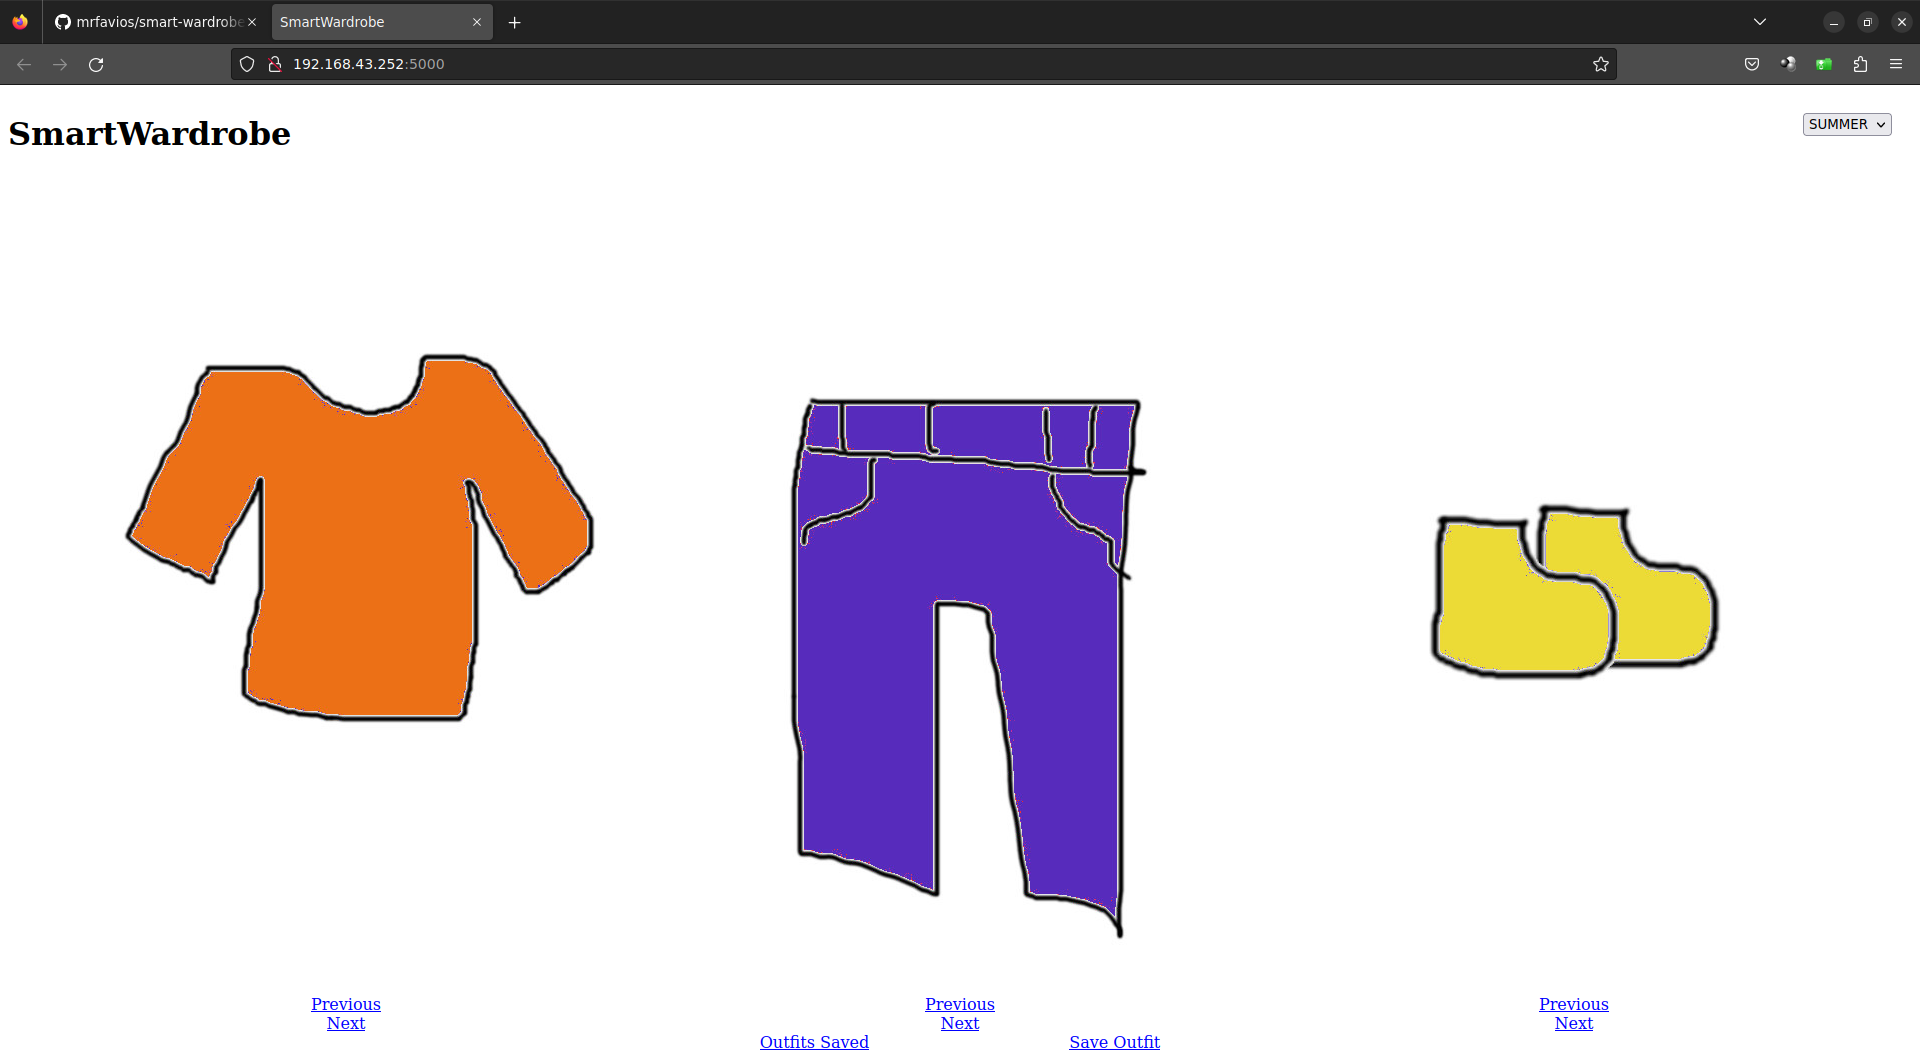
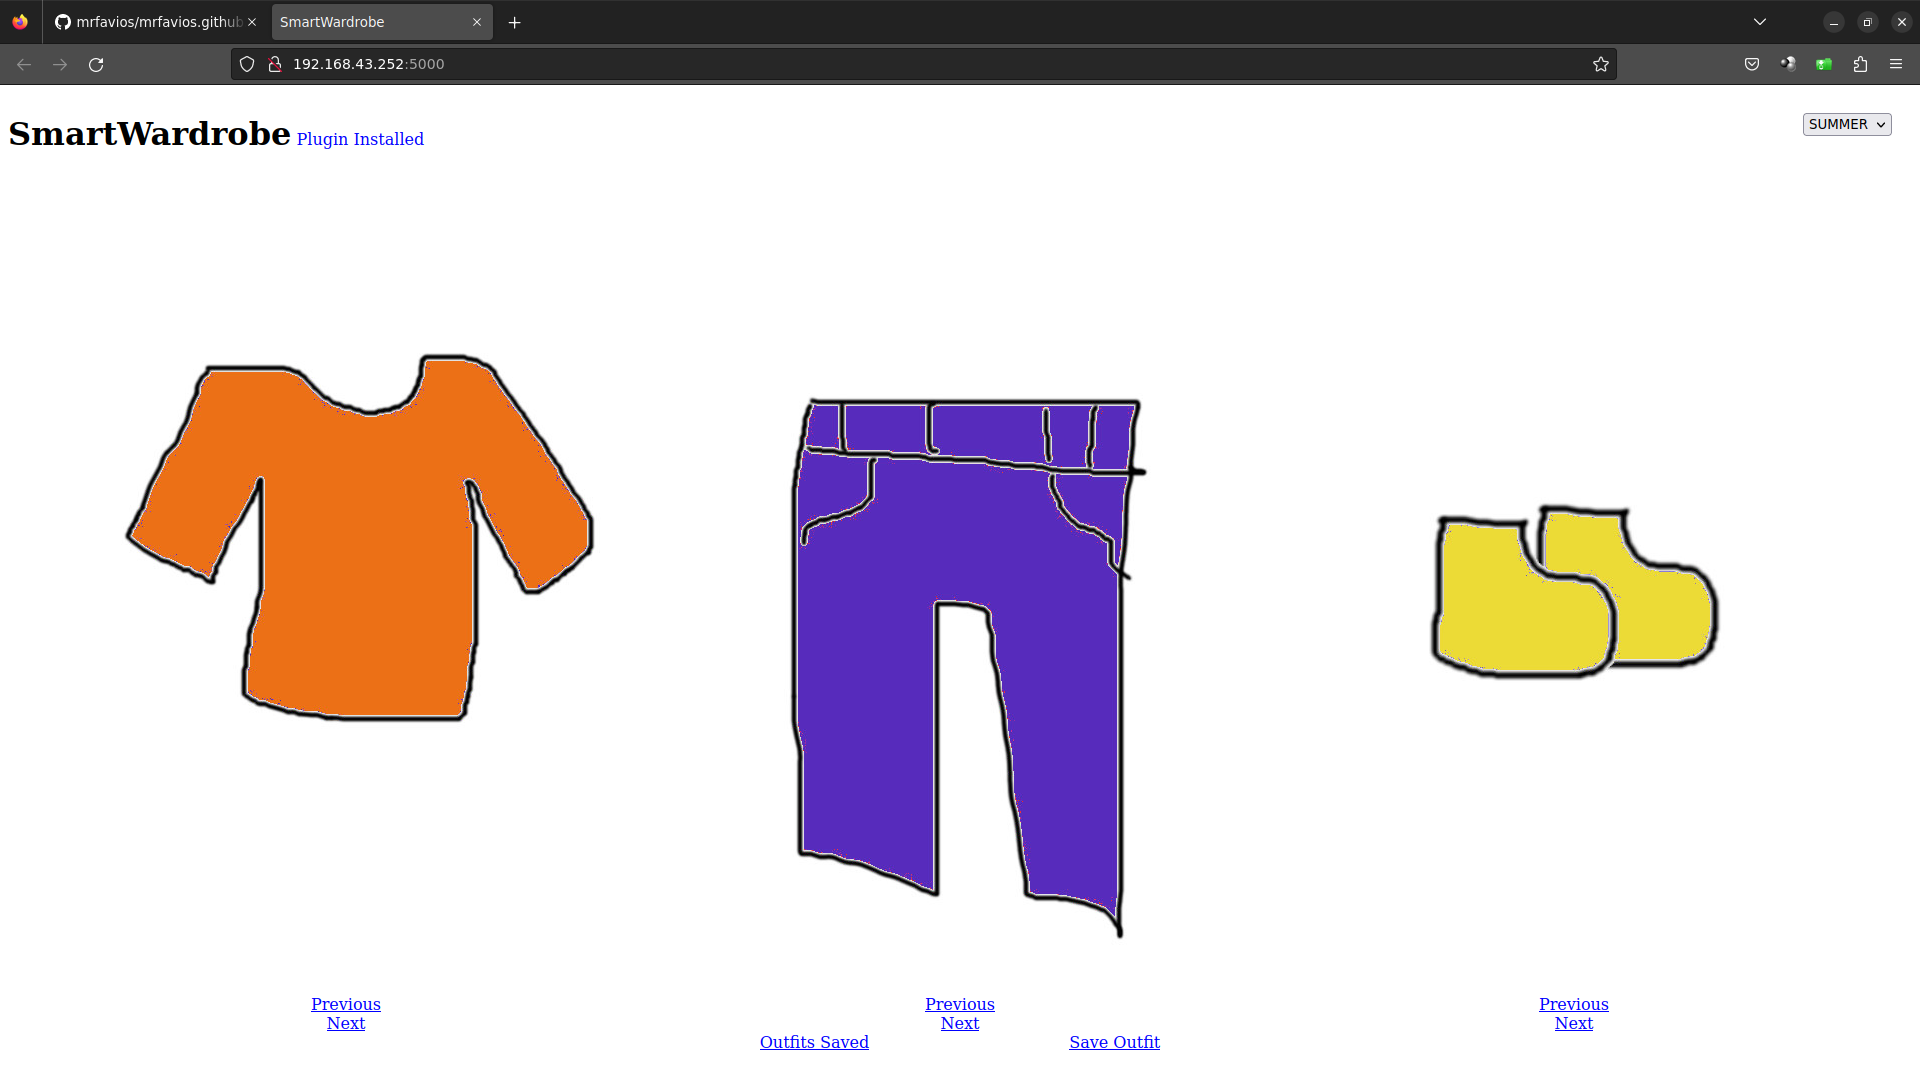
Update

diff --git a/progetto1.html b/progetto1.html
@@ -142,18 +142,37 @@ body.dark-mode {
    
 </div>
 <br>
+
   <!-- Sezione "Progetto" -->
   
   <div class="container">
   <h1 class="text-center" style="color: #0077B6">Armadio Smart - Sistema di gestione degli outfit</h1>
-  <div class="container d-flex justify-content-center align-items-center">
-  <div class="text-center">
+  <br>
+
+<!-- Sezione "Immagini" -->
+
+    <div class="container">
+      <div class="row">
+        <div class="col-lg-6 col-md-6 col-sm-12">
+          <img src="img/project2.png" width="600" height="400"  class="img-fluid rounded mb-4" alt="Immagine">
+        </div>
+        <div class="col-lg-6 col-md-6 col-sm-12">
+          <img src="img/project2-2.png" width="600" height="400"  class="img-fluid rounded mb-4" alt="Immagine">
+        </div>
+      </div>
+    </div>
+
+<div class="text-center">
     <a href="https://github.com/mrfavios/smart-wardrobe" class="btn btn-primary mt-3">Visualizza su Github</a>
   </div>
-</div>
-
   <br>
   <p class="lead">Questo è un progetto basato su Python e Flask per la gestione degli outfit in un armadio smart. Il progetto consente agli utenti di creare outfit utilizzando capi di abbigliamento già salvati, come pantaloni, maglie e scarpe.</p>
+  
+  <h2 class="mt-5">Ultimo aggiornamento - 31/03/2023</h2>
+  <ul>
+    <li>Supporto plugin</li>
+  </ul>
+  
   <h2 class="mt-5">Come iniziare</h2>
   <p>Per iniziare, clonare il progetto sulla propria macchina locale usando il seguente comando:</p>
   <p><code>git clone https://github.com/mrfavios/smart-wardrobe.git</code></p>
@@ -165,13 +184,14 @@ body.dark-mode {
   </ul>
   <p>Successivamente, è necessario salvare le immagini degli articoli di abbigliamento nelle cartelle appropriate della directory static/img. Le immagini devono essere salvate nelle seguenti cartelle:</p>
   <ul>
-    <li>static/img/pantaloni</li>
-    <li>static/img/camicie</li>
-    <li>static/img/scarpe</li>
+    <li>static/img/pants</li>
+    <li>static/img/shirts</li>
+    <li>static/img/shoes</li>
   </ul>
   <p>Il progetto viene fornito con outfit di esempio, che si trovano nel file outfit.json.</p>
-  <p>Per eseguire il progetto, aprire una finestra di terminale e navigare nella directory del progetto. Quindi, eseguire il seguente comando:</p>
-  <p><code>python app.py</code></p>
+  <p>Per eseguire il progetto, aprire una finestra di terminale e navigare nella 
+  directory del progetto. Quindi, eseguire il seguente comando:</p>
+  <p><code>python wardrobe.py</code></p>
   <p>In questo modo si avvierà l'applicazione Flask e si potrà accedere al sistema di guardaroba smart aprendo il browser web e navigando verso http://(il vostro ip locale):5000.</p>
   <h2 class="mt-5">Come funziona</h2>
   <p>Il sistema di guardaroba intelligente consente agli utenti di visualizzare i propri capi di abbigliamento e di creare outfit selezionando gli articoli da ogni categoria. Gli utenti possono anche salvare gli outfit per riferimenti futuri.</p>
@@ -204,7 +224,7 @@ body.dark-mode {
       <div class="row">
       <div class="col-lg-6 col-md-6 col-sm-12">
           <p>Copyleft 2023 
-          <a href="#">MrFavios</a>. Tutti i diritti riservati.</p>
+          <a href="https://github.com/mrfavios">MrFavios</a>. Tutti i diritti riservati.</p>
         </div>
         <div class="col-lg-6 col-md-6 col-sm-12">
           <ul class="list-unstyled">

diff --git a/index.html b/index.html
@@ -279,7 +279,7 @@ body.dark-mode {
       <div class="row">
       <div class="col-lg-6 col-md-6 col-sm-12">
           <p>Copyleft 2023 
-          <a href="#">MrFavios</a>. Tutti i diritti riservati.</p>
+          <a href="https://github.com/mrfavios">MrFavios</a>. Tutti i diritti riservati.</p>
         </div>
         <div class="col-lg-6 col-md-6 col-sm-12">
           <ul class="list-unstyled">
